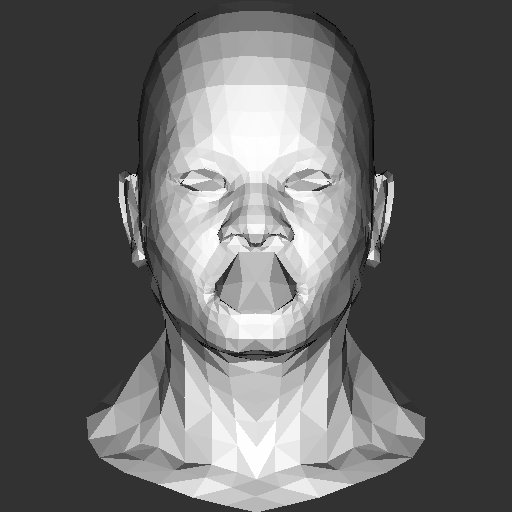
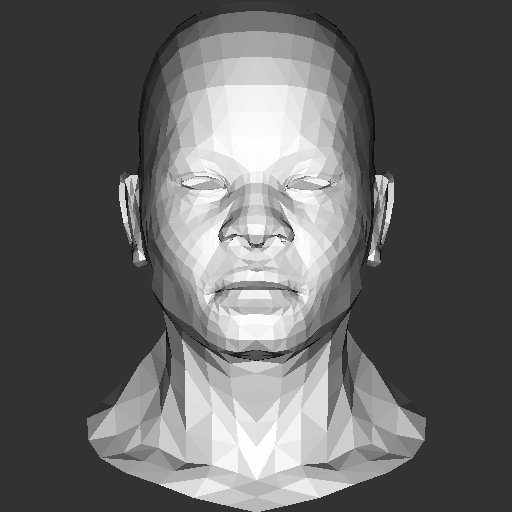
Implement z-buffer for triangle rasterizing

diff --git a/src/drawable.rs b/src/drawable.rs
@@ -1,48 +1,101 @@
-use crate::color::Color;
-use image::{ImageResult, RgbImage};
 use std::path::Path;
+
+use image::{ImageResult, RgbImage};
+
+use crate::color::Color;
 
 #[derive(Debug)]
 pub struct Point<T> {
     x: T,
     y: T,
+    z: T,
 }
 
 impl<T> Point<T> {
-    pub fn new(x: T, y: T) -> Self {
-        Point { x, y }
+    pub fn new(x: T, y: T, z: T) -> Self {
+        Point { x, y, z }
+    }
+}
+
+fn min<T: PartialOrd>(a: T, b: T) -> T {
+    if a < b {
+        a
+    } else {
+        b
+    }
+}
+
+fn max<T: PartialOrd>(a: T, b: T) -> T {
+    if a > b {
+        a
+    } else {
+        b
     }
 }
 
 impl<T> Point<T>
 where
-    T: Copy + Ord,
+    T: Copy + PartialOrd,
 {
     pub fn min(&self, other: &Point<T>) -> Self {
         Point {
-            x: self.x.min(other.x),
-            y: self.y.min(other.y),
+            x: min(self.x, other.x),
+            y: min(self.y, other.y),
+            z: min(self.z, other.z),
         }
     }
 
     pub fn max(&self, other: &Point<T>) -> Self {
         Point {
-            x: self.x.max(other.x),
-            y: self.y.max(other.y),
+            x: max(self.x, other.x),
+            y: max(self.y, other.y),
+            z: max(self.z, other.z),
         }
     }
 }
 
-impl From<&ScreenPoint> for Point<f64> {
+impl From<&ScreenPoint> for Point3f {
     fn from(point: &ScreenPoint) -> Self {
         Point {
             x: point.x as f64,
             y: point.y as f64,
+            z: point.z as f64,
+        }
+    }
+}
+
+impl From<ScreenPoint> for Point3f {
+    fn from(point: ScreenPoint) -> Self {
+        Point {
+            x: point.x as f64,
+            y: point.y as f64,
+            z: point.z as f64,
+        }
+    }
+}
+
+impl From<&Point3f> for ScreenPoint {
+    fn from(point: &Point3f) -> Self {
+        Point {
+            x: point.x as u32,
+            y: point.y as u32,
+            z: point.z as u32,
+        }
+    }
+}
+
+impl From<Point3f> for ScreenPoint {
+    fn from(point: Point3f) -> Self {
+        Point {
+            x: point.x as u32,
+            y: point.y as u32,
+            z: point.z as u32,
         }
     }
 }
 
 pub type ScreenPoint = Point<u32>;
+pub type Point3f = Point<f64>;
 
 pub trait Drawable {
     fn width(&self) -> u32;
@@ -52,22 +105,25 @@ pub trait Drawable {
     fn line(&mut self, x0: u32, y0: u32, x1: u32, y1: u32, color: Color);
     fn triangle(
         &mut self,
-        u: &ScreenPoint,
-        v: &ScreenPoint,
-        w: &ScreenPoint,
+        u: &Point3f,
+        v: &Point3f,
+        w: &Point3f,
         color: Color,
         wireframe_only: bool,
     );
+    fn check_and_set_zbuf(&mut self, x: u32, y: u32, z_value: f64) -> bool;
 }
 
 pub struct Image {
     image: RgbImage,
+    z_buffer: Vec<f64>,
 }
 
 impl Image {
     pub fn new(width: u32, height: u32) -> Image {
         Image {
             image: RgbImage::new(width, height),
+            z_buffer: vec![f64::NEG_INFINITY; (width * height) as usize],
         }
     }
 
@@ -133,17 +189,27 @@ impl Drawable for Image {
 
     fn triangle(
         &mut self,
-        u: &ScreenPoint,
-        v: &ScreenPoint,
-        w: &ScreenPoint,
+        u: &Point3f,
+        v: &Point3f,
+        w: &Point3f,
         color: Color,
         wireframe_only: bool,
     ) {
         if wireframe_only {
-            triangle_wireframe(self, u, v, w, color);
+            triangle_wireframe(self, &u.into(), &v.into(), &w.into(), color);
         } else {
             // triangle_line_sweep(self, u, v, w, color);
             triangle_barycentric(self, u, v, w, color);
+        }
+    }
+
+    fn check_and_set_zbuf(&mut self, x: u32, y: u32, z_value: f64) -> bool {
+        let idx = (y * self.height() + x) as usize;
+        if self.z_buffer[idx] < z_value {
+            self.z_buffer[idx] = z_value;
+            true
+        } else {
+            false
         }
     }
 }
@@ -187,99 +253,43 @@ fn triangle_line_sweep(
     }
 }
 
-fn triangle_barycentric(
-    image: &mut Image,
-    u: &ScreenPoint,
-    v: &ScreenPoint,
-    w: &ScreenPoint,
-    color: Color,
-) {
-    let min_p = u.min(v).min(w);
-    let max_p = u.max(v).max(w);
+const LIMIT: f64 = 1e-9;
+
+fn triangle_barycentric(image: &mut Image, u: &Point3f, v: &Point3f, w: &Point3f, color: Color) {
+    let min_p: ScreenPoint = ScreenPoint::from(u.min(v).min(w));
+    let max_p: ScreenPoint = ScreenPoint::from(u.max(v).max(w));
 
     let width = image.width();
     let height = image.height();
-    let min_p = ScreenPoint::new(min_p.x.min(width - 1), min_p.y.min(height - 1));
-    let max_p = ScreenPoint::new(max_p.x.min(width - 1), max_p.y.min(height - 1));
+    let min_p = ScreenPoint::new(min_p.x.min(width - 1), min_p.y.min(height - 1), min_p.z);
+    let max_p = ScreenPoint::new(max_p.x.min(width - 1), max_p.y.min(height - 1), max_p.z);
 
     for y in min_p.y..=max_p.y {
         for x in min_p.x..=max_p.x {
-            let p = ScreenPoint::new(x, y);
-            if is_point_inside_triangle(u, v, w, &p) {
-                image.point(x, y, color);
+            let p = ScreenPoint::new(x, y, 0).into();
+            let (a, b, c) = barycentric(&u, &v, &w, &p);
+            if a >= -LIMIT && b >= -LIMIT && c >= -LIMIT {
+                let z = a * u.z + b * v.z + c * w.z;
+                if image.check_and_set_zbuf(x, y, z) {
+                    image.point(x, y, color);
+                }
             }
         }
     }
 }
 
-fn barycentric(
-    p1: &ScreenPoint,
-    p2: &ScreenPoint,
-    p3: &ScreenPoint,
-    p: &ScreenPoint,
-) -> (f64, f64, f64) {
-    let p1: Point<f64> = p1.into();
-    let p2: Point<f64> = p2.into();
-    let p3: Point<f64> = p3.into();
-    let p: Point<f64> = p.into();
-
+fn barycentric(p1: &Point3f, p2: &Point3f, p3: &Point3f, p: &Point3f) -> (f64, f64, f64) {
     let denom = (p1.x - p3.x) * (p2.y - p3.y) - (p1.y - p3.y) * (p2.x - p3.x);
     let lambda1 = ((p.x - p3.x) * (p2.y - p3.y) + (p3.x - p2.x) * (p.y - p3.y)) / denom;
     let lambda2 = ((p3.x - p.x) * (p1.y - p3.y) + (p3.x - p1.x) * (p3.y - p.y)) / denom;
     (lambda1, lambda2, 1.0 - lambda1 - lambda2)
 }
 
-fn is_point_inside_triangle(
-    p1: &ScreenPoint,
-    p2: &ScreenPoint,
-    p3: &ScreenPoint,
-    p: &ScreenPoint,
-) -> bool {
-    let (a, b, c) = barycentric(p1, p2, p3, p);
-    const LIMIT: f64 = 1e-9;
-    a >= -LIMIT && b >= -LIMIT && c >= -LIMIT
-}
-
-#[test]
-fn test_is_point_inside_triangle() {
-    let p1 = ScreenPoint::new(5, 5);
-    let p2 = ScreenPoint::new(10, 5);
-    let p3 = ScreenPoint::new(10, 7);
-    assert!(is_point_inside_triangle(&p1, &p2, &p3, &p1));
-    assert!(is_point_inside_triangle(&p1, &p2, &p3, &p2));
-    assert!(is_point_inside_triangle(&p1, &p2, &p3, &p3));
-    assert!(is_point_inside_triangle(
-        &p1,
-        &p2,
-        &p3,
-        &ScreenPoint::new(8, 6)
-    ));
-
-    assert!(!is_point_inside_triangle(
-        &p1,
-        &p2,
-        &p3,
-        &ScreenPoint::new(5, 4)
-    ));
-    assert!(!is_point_inside_triangle(
-        &p1,
-        &p2,
-        &p3,
-        &ScreenPoint::new(100, 100)
-    ));
-    assert!(!is_point_inside_triangle(
-        &p1,
-        &p2,
-        &p3,
-        &ScreenPoint::new(5, 7)
-    ));
-}
-
 #[test]
 fn test_barycentric() {
-    let p1 = ScreenPoint::new(5, 5);
-    let p2 = ScreenPoint::new(10, 5);
-    let p3 = ScreenPoint::new(10, 7);
+    let p1 = ScreenPoint::new(5, 5, 0);
+    let p2 = ScreenPoint::new(10, 5, 0);
+    let p3 = ScreenPoint::new(10, 7, 0);
 
     fn close_enough(res: (f64, f64, f64), ref_vals: (f64, f64, f64)) -> bool {
         const EPS: f64 = 1e-6;
@@ -300,7 +310,7 @@ fn test_barycentric() {
         (0.0, 0.0, 1.0)
     ));
 
-    let outside = ScreenPoint::new(100, 100);
+    let outside = ScreenPoint::new(100, 100, 0);
     let (a, b, c) = barycentric(&p1, &p2, &p3, &outside);
     assert!([a, b, c].iter().any(|&x| x < 0.0));
 }
@@ -319,11 +329,11 @@ fn intersect_y(p1: &ScreenPoint, p2: &ScreenPoint, y: u32) -> f64 {
 
 #[test]
 fn test_intersect_y() {
-    let p1 = ScreenPoint::new(5, 10);
-    let p2 = ScreenPoint::new(5, 20);
+    let p1 = ScreenPoint::new(5, 10, 0);
+    let p2 = ScreenPoint::new(5, 20, 0);
     assert_eq!(intersect_y(&p1, &p2, 15), 5.0);
 
-    let p1 = ScreenPoint::new(5, 10);
-    let p2 = ScreenPoint::new(20, 20);
+    let p1 = ScreenPoint::new(5, 10, 0);
+    let p2 = ScreenPoint::new(20, 20, 0);
     assert_eq!(intersect_y(&p1, &p2, 15), 12.5);
 }

diff --git a/src/main.rs b/src/main.rs
@@ -1,14 +1,16 @@
+use wavefront_obj::obj::{Object, Primitive, Vertex};
+
 use color::Color;
 use drawable::Image;
-use wavefront_obj::obj::{Object, Primitive, Vertex};
+use math::Vec3f;
+
+use crate::drawable::{Drawable, Point3f};
 
 mod color;
 mod drawable;
 mod math;
 
-use crate::drawable::{Drawable, ScreenPoint};
-use math::Vec3f;
-
+#[allow(unused)]
 enum DrawStyle {
     Wireframe,
     Filled(Color),
@@ -38,7 +40,7 @@ fn draw_obj(image: &mut Image, obj: &Object, draw_style: DrawStyle) {
                         // not visible
                         continue;
                     }
-                    let transform_component = |x, offset, scale| ((x + offset) * scale) as u32;
+                    let transform_component = |x, offset, scale| -> f64 { (x + offset) * scale };
                     let x1 = transform_component(v1.x, 1.0, scale_x);
                     let y1 = transform_component(-v1.y, 1.0, scale_y);
                     let x2 = transform_component(v2.x, 1.0, scale_x);
@@ -51,9 +53,9 @@ fn draw_obj(image: &mut Image, obj: &Object, draw_style: DrawStyle) {
                         DrawStyle::FilledRandom => Color::random().scale(intensity),
                     };
                     image.triangle(
-                        &ScreenPoint::new(x1, y1),
-                        &ScreenPoint::new(x2, y2),
-                        &ScreenPoint::new(x3, y3),
+                        &Point3f::new(x1, y1, v1.z),
+                        &Point3f::new(x2, y2, v2.z),
+                        &Point3f::new(x3, y3, v3.z),
                         color,
                         matches!(draw_style, DrawStyle::Wireframe),
                     );
